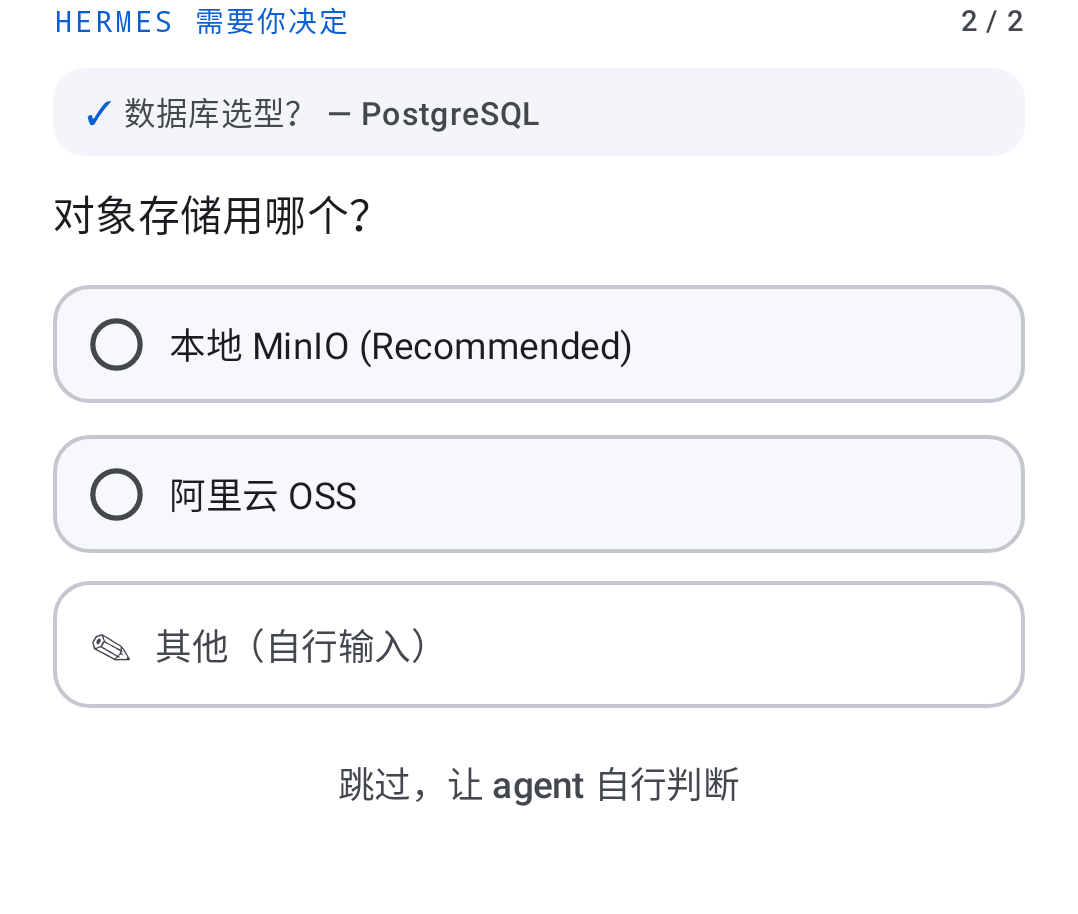
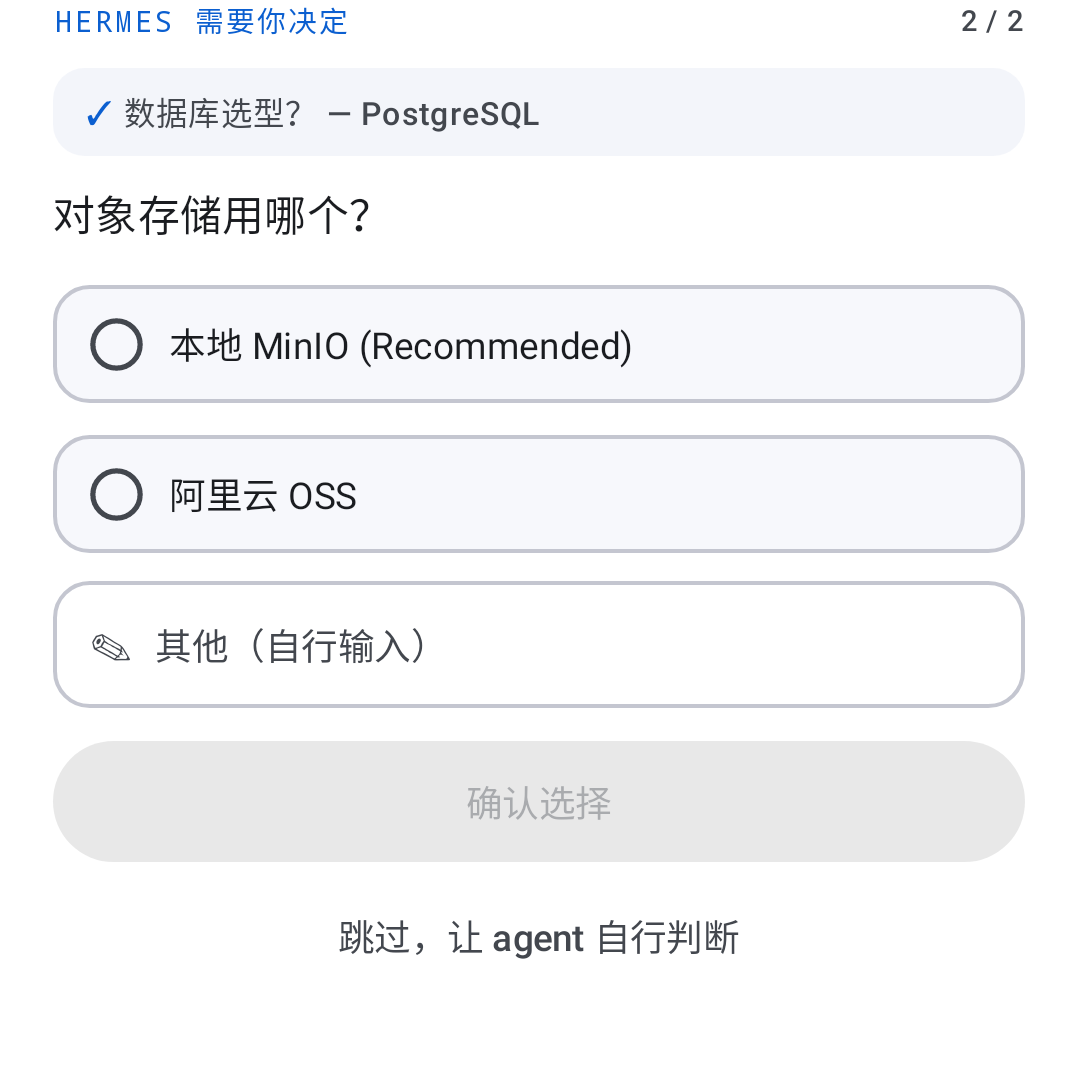
fix(android): clarify two-step confirm, respond failure recovery, id fallback (0.1.72)
Single-select clarify choices now select on tap and submit only via the
explicit Confirm button, matching the multi-select flow; a failed
clarify.respond restores the card for retry instead of silently
discarding the answer; parseClarifyRequest falls back to
clarify_id/requestId variants and logs a missing id; the clarify path
logs request ids and respond outcomes to the diagnostics log.

diff --git a/android/app/src/main/java/com/hermes/client/ui/chat/ClarifySheet.kt b/android/app/src/main/java/com/hermes/client/ui/chat/ClarifySheet.kt
@@ -77,6 +77,7 @@ internal fun ClarifySheetContent(
         var otherOpen by remember(request.requestId, question.qid) { mutableStateOf(false) }
         var otherText by remember(request.requestId, question.qid) { mutableStateOf("") }
         var checked by remember(request.requestId, question.qid) { mutableStateOf(setOf<Int>()) }
+        var picked by remember(request.requestId, question.qid) { mutableStateOf(-1) }
         Column(Modifier.fillMaxWidth().padding(horizontal = 20.dp).padding(bottom = 20.dp)) {
             Row(verticalAlignment = Alignment.CenterVertically) {
                 Text(
@@ -176,13 +177,16 @@ internal fun ClarifySheetContent(
                 }
             } else {
                 question.choices.forEachIndexed { index, choice ->
-                    val selected = index in checked
+                    val selected = if (question.multiSelect) index in checked else index == picked
                     Surface(
                         onClick = {
                             if (question.multiSelect) {
                                 checked = if (selected) checked - index else checked + index
                             } else {
-                                onAnswer(choice)
+                                // Two-step on purpose: tap selects, the confirm button submits.
+                                // One-tap submit felt like the card vanished out from under the
+                                // user's finger (device feedback) and left no room to reconsider.
+                                picked = if (picked == index) -1 else index
                             }
                         },
                         shape = RoundedCornerShape(14.dp),
@@ -203,7 +207,7 @@ internal fun ClarifySheetContent(
                                 Checkbox(checked = selected, onCheckedChange = null, modifier = Modifier.size(20.dp))
                                 Spacer(Modifier.size(10.dp))
                             } else {
-                                RadioButton(selected = false, onClick = null, modifier = Modifier.size(20.dp))
+                                RadioButton(selected = selected, onClick = null, modifier = Modifier.size(20.dp))
                                 Spacer(Modifier.size(10.dp))
                             }
                             Text(choice, style = MaterialTheme.typography.bodyMedium, modifier = Modifier.weight(1f))
@@ -231,16 +235,26 @@ internal fun ClarifySheetContent(
                         )
                     }
                 }
-                if (question.multiSelect) {
+                if (question.choices.isNotEmpty()) {
                     Button(
                         onClick = {
-                            val labels = checked.sorted().map { question.choices[it] }
-                            if (labels.isNotEmpty()) onAnswer(labels.joinToString(", "))
+                            if (question.multiSelect) {
+                                val labels = checked.sorted().map { question.choices[it] }
+                                if (labels.isNotEmpty()) onAnswer(labels.joinToString(", "))
+                            } else if (picked >= 0) {
+                                onAnswer(question.choices[picked])
+                            }
                         },
-                        enabled = checked.isNotEmpty(),
+                        enabled = if (question.multiSelect) checked.isNotEmpty() else picked >= 0,
                         modifier = Modifier.fillMaxWidth().padding(top = 12.dp).height(46.dp),
                     ) {
-                        Text(localized(language, "确认选择（${checked.size} 项）", "Confirm (${checked.size})"))
+                        Text(
+                            if (question.multiSelect) {
+                                localized(language, "确认选择（${checked.size} 项）", "Confirm (${checked.size})")
+                            } else {
+                                localized(language, "确认选择", "Confirm choice")
+                            },
+                        )
                     }
                 }
                 TextButton(

diff --git a/android/app/src/main/java/com/hermes/client/ui/chat/ChatViewModel.kt b/android/app/src/main/java/com/hermes/client/ui/chat/ChatViewModel.kt
@@ -881,6 +881,10 @@ class ChatViewModel @Inject constructor(
     fun clarify(answer: String) {
         val request = _state.value.pendingClarify ?: return
         val current = request.currentQuestion
+        com.hermes.client.data.diagnostics.DebugLog.log(
+            "clarify",
+            "respond req=${request.requestId.ifBlank { "<EMPTY>" }} qid=${current?.qid ?: "-"} answerLen=${answer.length}",
+        )
         if (request.isBatch && current != null) {
             val advanced = request.copy(lockedAnswers = request.lockedAnswers + (current.qid to answer))
             val finished = advanced.currentQuestion == null
@@ -888,13 +892,22 @@ class ChatViewModel @Inject constructor(
             viewModelScope.launch {
                 runCatching { chat.respondClarify(sessionId, request.requestId, answer, current.qid) }
                     .onSuccess { if (finished) runtimeKey?.let(runtimeStore::continueAfterInput) }
-                    .onFailure { mutateState { it.copy(pendingClarify = null) } }
+                    .onFailure { error ->
+                        // Transport failure: put the question back so the user can retry —
+                        // a swallowed error looked exactly like a successful submit.
+                        com.hermes.client.data.diagnostics.DebugLog.log("clarify", "respond FAILED: ${error.message}")
+                        mutateState { it.copy(pendingClarify = request) }
+                    }
             }
         } else {
             mutateState { it.copy(pendingClarify = null) }
             viewModelScope.launch {
                 runCatching { chat.respondClarify(sessionId, request.requestId, answer) }
                     .onSuccess { runtimeKey?.let(runtimeStore::continueAfterInput) }
+                    .onFailure { error ->
+                        com.hermes.client.data.diagnostics.DebugLog.log("clarify", "respond FAILED: ${error.message}")
+                        mutateState { it.copy(pendingClarify = request) }
+                    }
             }
         }
     }

diff --git a/android/app/src/main/java/com/hermes/client/ui/chat/ChatUiState.kt b/android/app/src/main/java/com/hermes/client/ui/chat/ChatUiState.kt
@@ -563,7 +563,19 @@ fun parseClarifyRequest(payload: kotlinx.serialization.json.JsonObject): Clarify
         (obj["choices"] as? kotlinx.serialization.json.JsonArray)
             ?.mapNotNull { prim(it) }
             .orEmpty()
-    val requestId = prim(payload["request_id"]) ?: ""
+    // Field-name defensiveness: the TUI gateway sends request_id, but Hermes surfaces have
+    // shipped clarify_id / requestId variants historically. An empty id makes clarify.respond
+    // unroutable server-side, so log loudly when none resolves.
+    val requestId = prim(payload["request_id"])
+        ?: prim(payload["clarify_id"])
+        ?: prim(payload["requestId"])
+        ?: ""
+    if (requestId.isEmpty()) {
+        com.hermes.client.data.diagnostics.DebugLog.log(
+            "clarify",
+            "request WITHOUT id — keys=${payload.keys}",
+        )
+    }
     val batch = (payload["questions"] as? kotlinx.serialization.json.JsonArray)
         ?.mapNotNull { element ->
             val obj = element as? kotlinx.serialization.json.JsonObject ?: return@mapNotNull null

diff --git a/android/app/src/test/java/com/hermes/client/ui/chat/ClarifyParseTest.kt b/android/app/src/test/java/com/hermes/client/ui/chat/ClarifyParseTest.kt
@@ -77,4 +77,13 @@ class ClarifyParseTest {
         assertEquals(1, req.questions.size)
         assertEquals("有效", req.currentQuestion!!.question)
     }
+
+    @Test
+    fun fallsBackToAlternateRequestIdFields() {
+        val viaClarifyId = parseClarifyRequest(payload("""{"clarify_id":"cl-9","question":"继续吗？"}"""))
+        assertEquals("cl-9", viaClarifyId.requestId)
+
+        val viaCamelCase = parseClarifyRequest(payload("""{"requestId":"cl-10","question":"继续吗？"}"""))
+        assertEquals("cl-10", viaCamelCase.requestId)
+    }
 }

diff --git a/android/README.md b/android/README.md
@@ -191,6 +191,11 @@ The upstream client is Kotlin + Jetpack Compose and already implements Hermes RE
   takes control. The chat header drops the profile avatar, promotes search beside More, removes the
   unused New chat menu entry, and adds a manual conversation refresh that preserves visible content,
   waits for active streaming to finish, then force-syncs and remeasures the transcript in place.
+- Version 0.1.72 hardens the decision card round-trip: single-select now works in two steps
+  (tap to select, explicit Confirm to submit) matching multi-select, a failed clarify.respond
+  restores the card for retry instead of silently dropping the answer, the parser falls back to
+  clarify_id/requestId when request_id is absent, and the clarify path logs request ids and
+  respond outcomes to the diagnostics log for on-device evidence.
 - Version 0.1.71 ships the structured decision card: clarify questions render their upstream
   choices (single-tap answer, multi-select confirm, batch step-through with per-question
   locking), the free-text Other path is always present, skip is explicit (no more silent
